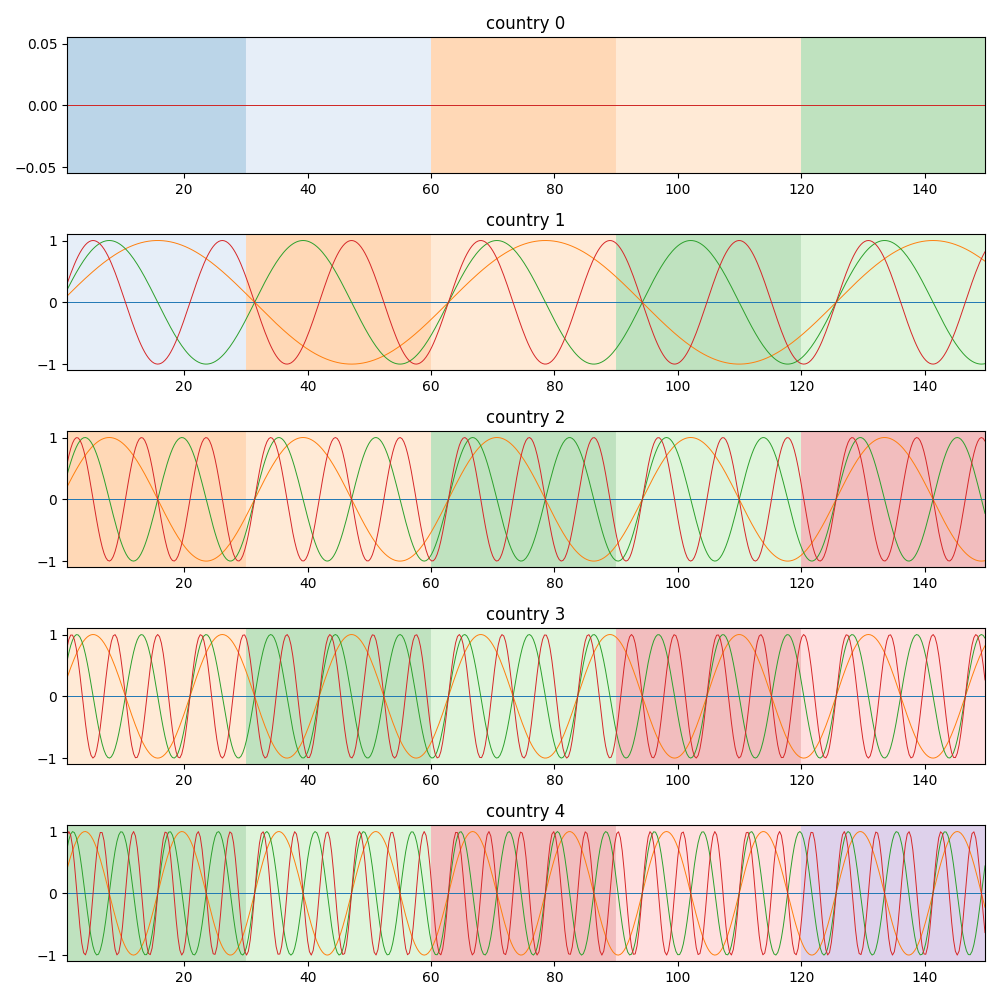
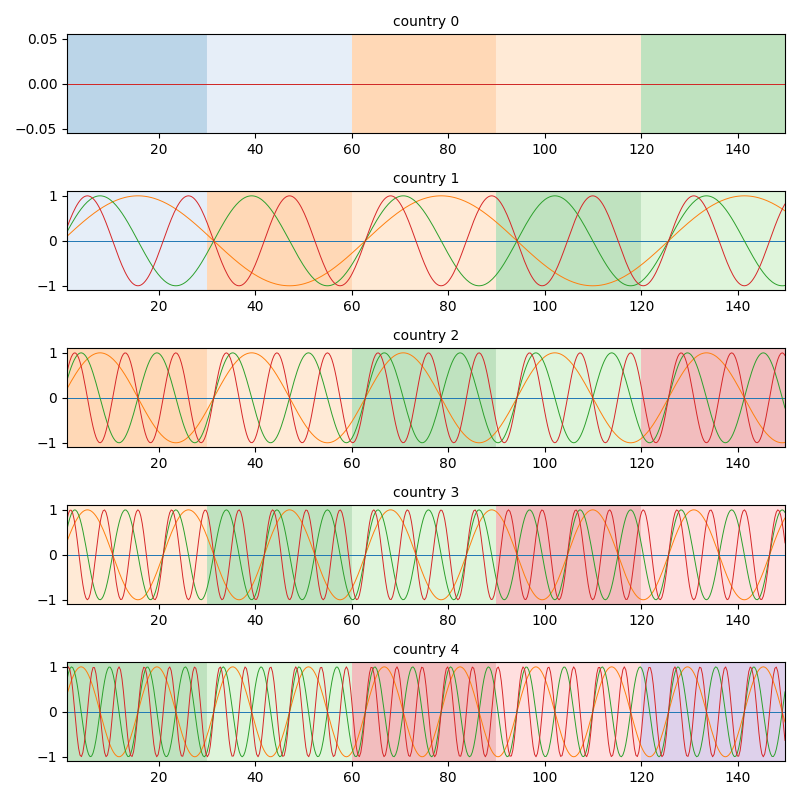
change default figsize

Changed region(s): [[0.0312, 0.0, 1.0, 1.0]]

diff --git a/src/tensor_plot/TensorPlot.py b/src/tensor_plot/TensorPlot.py
@@ -65,7 +65,7 @@ class TensorPlot:
         # draw.line((shift[0]*series_num, 0, 0, shift[1]*series_num),fill=(255, 255, 0), width=3)
         overall_img.save(save_path)
 
-    def plot_flat(self, save_path: str, dpi: int = 100, fig_size: tuple[int, int] = (6, 6)):
+    def plot_flat(self, save_path: str, dpi: int = 100, fig_size: tuple[int, int] = (8, 8)):
         series_num = len(self.series_list)
         fig, axes = plt.subplots(nrows=series_num, ncols=1, sharex=False, dpi=dpi, figsize=fig_size)
         for i, series in enumerate(self.series_list):

diff --git a/src/main.py b/src/main.py
@@ -16,7 +16,7 @@ def main():
     tpl = TensorPlot()
     for i, series in enumerate(tensors):
         series = Series(times, series.transpose(), linewidth=0.7)
-        series.set_title(f"country {i}")
+        series.set_title(f"country {i}", font_size=10)
         for j in range(5):
             series.draw_background(j * 30, (j + 1) * 30, cm_colors[i + j], alpha=0.3)
         tpl.add_series(series)

diff --git a/README.md b/README.md
@@ -61,7 +61,7 @@
     tpl = TensorPlot()
     for i, series in enumerate(tensors):
         series = Series(times, series.transpose(), linewidth=0.7)
-        series.set_title(f"country {i}")
+        series.set_title(f"country {i}", font_size=10)
         for j in range(5):
             series.draw_background(j * 30, (j + 1) * 30, cm_colors[i + j], alpha=0.3)
         tpl.add_series(series)
